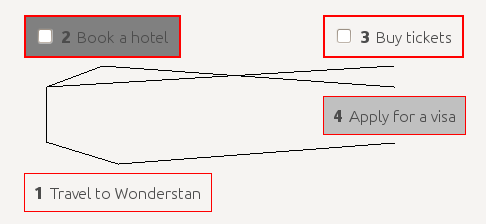
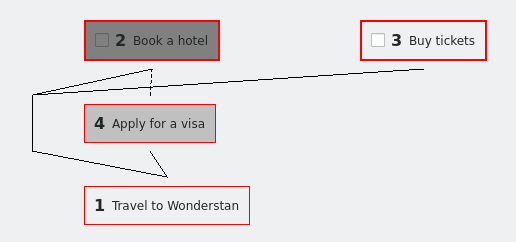
Renew Readme/screenshots

Changed region(s): [[0.0309, 0.0625, 0.9568, 0.9688], [0.6481, 0.375, 0.9568, 0.6562], [0.5247, 0.6562, 0.7099, 0.6875]]

diff --git a/README.md b/README.md
@@ -66,11 +66,15 @@ Voila! The _link_ has been created. Let's repeat this with another subgoal. Now 
 
 ![step6](doc/example6.png)
 
-Now we have one big goal with 3 smaller subgoals. And only 2 of these subgoals actually respects your attention right now. They are marked with **bold border**. In addition, you may completely hide blocked goals so they don't distract your focus. Just press `v` to change _view_.
+Now we have one big goal with 3 smaller subgoals. And only 2 of these subgoals actually respects your attention right now. They are marked with **bold border**. In addition, you may completely hide blocked goals so they don't distract your focus. Just press `t` to change _view_.
 
 ![step7](doc/example7.png)
 
 As you may see, enumeration of goals has been changed. This is done in order to simplify work with a large amount of goals. Even when your goaltree has tens of subgoals, there are only few of them on the top usually. With using enumeration only for the visible goals we make goal selection easier.
+
+The "Apply for a visa" goal is still here, but it becomes "non-switchable". It has no checkbox on. Don't worry! It should appear again when the time comes. Now you'd better even hide it by typing `Space` again (focusing on the "Buy tickets" goal).
+
+![step7.1](doc/example7.1.png)
 
 Now you don't need to think about visa. Being focused well on a single goal, you find good tickets and buy them. Now it's time to _close_ current subgoal. Just click on the goal's checkbox or press `c` key.
 
@@ -80,7 +84,7 @@ Wow, it disappears! And you may become even more focused because now you see the
 
 ![step9](doc/example9.png)
 
-Something interesting happens. Your current goal has been replaced with a new one. It means that nothing stops you from applying for a visa right now. Neat! Press `v` to change _view_ again and look what happens behind the scenes.
+Something interesting happens. Your current goal has been replaced with a new one. It means that nothing stops you from applying for a visa right now. Neat! Press `t` and `n` to change _view_ again and look what happens behind the scenes.
 
 ![step10](doc/example10.png)
 
@@ -88,18 +92,19 @@ Here we see that two closed goals still exists in a graph, but now they are mark
 
 Now just play around freely using following buttons:
 
- * `1`..`0` (according to the keyboard layout) for _selecting_ goals (when you have more than 10 goals, each selection needs 2 key presses);
+ * `1`..`0` (according to the keyboard layout) for _selecting_ goals (when you have more than 10 goals, each selection needs 2 key presses; and only for tens/hunderds of goals you need to make 3+ key presses);
  * `a` for _adding_ new subgoals (with _child link_ between current goal and subgoal);
  * `d` for _removing_ them (please note that removing is **undoable**, and may remove all subgoals of the current one);
  * `c` for _closing_ current goal, and also for re-open closed one;
  * `r` for _renaming_;
  * `Space` for _holding_ (remembering) current selection;
- * `l` for creating new _blocking link_ between remembered and current selections (current selection becomes subgoal of the remembered one), and also for removing existing links;
- * `k` for creating new _child link_ between remembered and current selections - please note that each goal could have at most 1 parent, and an old _child link_ will be replaced with _blocking link_;
+ * `l` for creating new _blocking link_ between remembered and current selections (current selection becomes "bloker" for the remembered one), and also for removing existing blocking links;
+ * `k` for creating/removing a _child link_ between remembered and current selections - please note that each goal could have at most 1 parent, and an old _child link_ will be replaced with _blocking link_;
  * `i` for _inserting_ new goal between remembered and current selections;
 * `Esc` to cancel changes you're currently doing when _add_, _insert_, or _rename_ a goal;
- * `z` for _zooming_ to the given goal or _unzooming_ back to all goals;
- * `v` for circular switching current _view_: only open goals → only "top" goals → all goals → ...;
+ * `z` for _zooming_ to the given goal or _unzooming_ back to all goals (see [zoom usage example](/doc/examples/zoom.md));
+ * `n` for switching current _view_ between only open goals (default) and open+closed;
+ * `t` for switching current _view_ between tree view (default) and only-switchable (like todo-list);
  * `q` for quitting when you are impressed enough.
 
 To view this list in the application itself, please use `/` button (or menu item).
